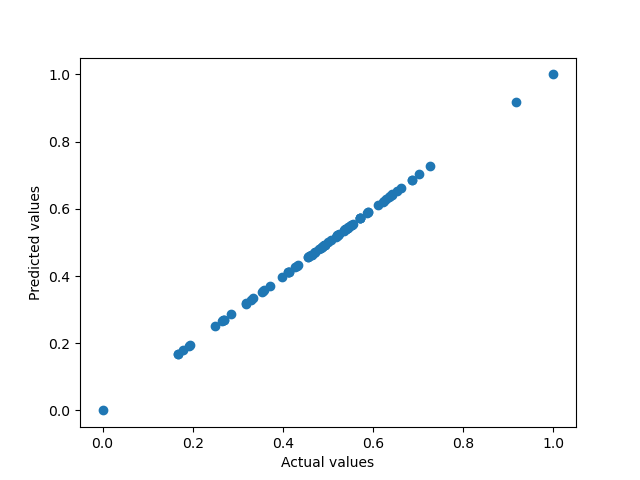
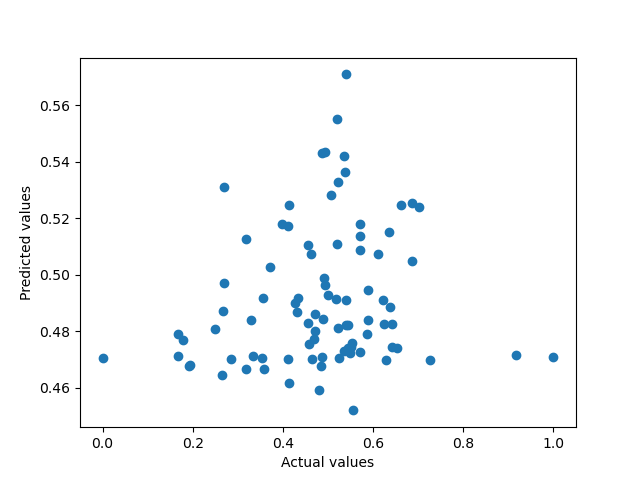
ai

diff --git a/analysis/ai.py b/analysis/ai.py
@@ -4,14 +4,15 @@ from sklearn import linear_model, metrics
 from player_data import create_players_dataset
 from sklearn.model_selection import train_test_split
 
+
 def compare_test_and_prediction(y_test, y_pred):
     # We are going to compare the actual values of y_test with the predicted values of y_pred
     # in a loop
     # Note: the indexes might not match
 
     # Let's compare the number of correct predictions with the total number of predictions
-    # We will consider a prediction correct if the difference between the actual value and the predicted value is less than 0.5
-    tolerance = 0.1
+    # We will consider a prediction correct if the difference between the actual value and the predicted value is less than 20%
+    tolerance = 0.2
     correct = 0
     # iterate over y_test the Pandas way
     pred_index = 0
@@ -21,10 +22,10 @@ def compare_test_and_prediction(y_test, y_pred):
             correct += 1
         pred_index += 1
 
-
     print("Correct predictions =", correct)
     print("Total predictions =", len(y_test))
     print("Accuracy =", correct / len(y_test))
+
 
 def train_model():
     df = create_players_dataset()
@@ -40,11 +41,14 @@ def train_model():
     # drop POSITION
     df = df.drop('POSITION', axis=1)
 
-    df = df[['WinRate', 'FGM', 'PF']]
+    # print columns
+    print(df.columns)
 
-    print(df)
+    x_input_data = df[['FGM', 'AST', 'REB', 'FGA', 'PF']]
+    y_output = df['WinRate']
 
-    X_train, X_test, y_train, y_test = train_test_split(df, df['WinRate'], test_size=0.2, random_state=42)
+    X_train, X_test, y_train, y_test = train_test_split(x_input_data, y_output, test_size=0.2,
+                                                        random_state=42)
 
     print("X_train", X_train)
 
@@ -80,10 +84,6 @@ def train_model():
     plt.xlabel("Actual values")
     plt.ylabel("Predicted values")
     plt.savefig('scatter_ai.png')
-
-
-
-
 
 
 train_model()
